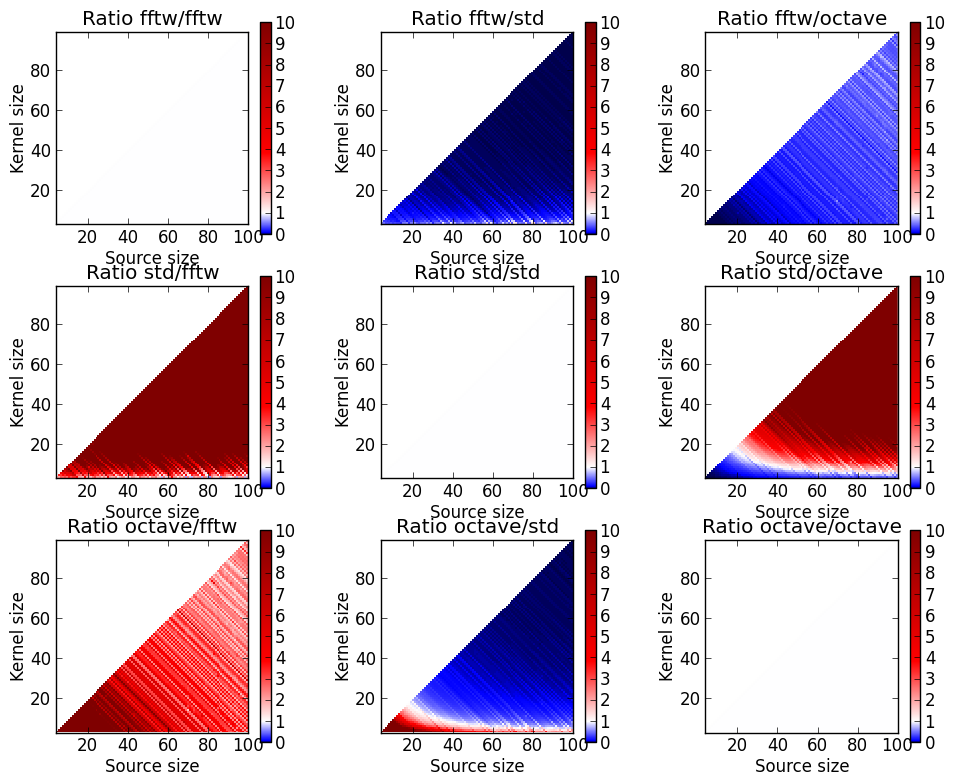
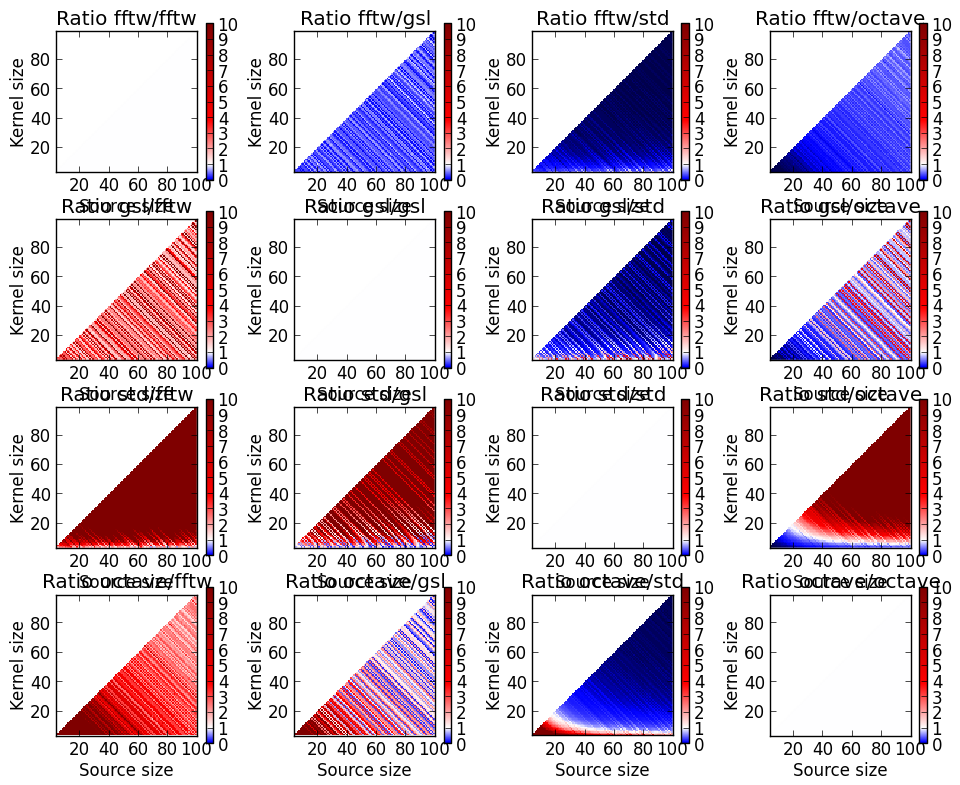
update of the plot scripts

diff --git a/Convolution/PythonScripts/plot_comparisons.py b/Convolution/PythonScripts/plot_comparisons.py
@@ -59,11 +59,16 @@ def cmap_center_point_adjust(cmap, range, center):
 
 
 data = np.genfromtxt('../Data/benchmarks_convolution_fftw.txt', dtype='str')
-
 data_linear_fftw = np.array(data[np.where(data[:,0] == 'linear'),1:], dtype=np.float)
 data_linear_fftw = data_linear_fftw.reshape(data_linear_fftw.shape[1:]) # drop the useless mode dimension
 data_circular_fftw = np.array(data[np.where(data[:,0] == 'circular'),1:], dtype=np.float)
 data_circular_fftw = data_circular_fftw.reshape(data_circular_fftw.shape[1:]) # drop the useless mode dimension
+
+data = np.genfromtxt('../Data/benchmarks_convolution_gsl.txt', dtype='str')
+data_linear_gsl = np.array(data[np.where(data[:,0] == 'linear'),1:], dtype=np.float)
+data_linear_gsl = data_linear_gsl.reshape(data_linear_gsl.shape[1:]) # drop the useless mode dimension
+data_circular_gsl = np.array(data[np.where(data[:,0] == 'circular'),1:], dtype=np.float)
+data_circular_gsl = data_circular_gsl.reshape(data_circular_gsl.shape[1:]) # drop the useless mode dimension
 
 data = np.genfromtxt('../Data/benchmarks_convolution_std.txt', dtype='str')
 data_linear_std = np.array(data[np.where(data[:,0] == 'linear'),1:], dtype=np.float)
@@ -92,6 +97,14 @@ Z_circular_fftw = np.NaN * np.zeros(X.shape)
 for d in data_circular_fftw:
     Z_circular_fftw[d[1]-min_kernel, d[0]-min_src] = d[2]
 
+Z_linear_gsl = np.NaN * np.zeros(X.shape)
+for d in data_linear_gsl:
+    Z_linear_gsl[d[1]-min_kernel, d[0]-min_src] = d[2]
+Z_circular_gsl = np.NaN * np.zeros(X.shape)
+for d in data_circular_gsl:
+    Z_circular_gsl[d[1]-min_kernel, d[0]-min_src] = d[2]
+
+
 Z_linear_std = np.NaN * np.zeros(X.shape)
 for d in data_linear_std:
     Z_linear_std[d[1]-min_kernel, d[0]-min_src] = d[2]
@@ -107,9 +120,9 @@ for d in data_circular_octave:
     Z_circular_octave[d[1]-min_kernel, d[0]-min_src] = d[2]
 
 
-Z_names = ['fftw', 'std', 'octave']
-Z_linear = [Z_linear_fftw, Z_linear_std, Z_linear_octave]
-Z_circular = [Z_circular_fftw, Z_circular_std, Z_circular_octave]
+Z_names = ['fftw', 'gsl', 'std', 'octave']
+Z_linear = [Z_linear_fftw, Z_linear_gsl, Z_linear_std, Z_linear_octave]
+Z_circular = [Z_circular_fftw, Z_circular_gsl, Z_circular_std, Z_circular_octave]
 
 ###################################################################
 # Plot the ratio of linear convolutions

diff --git a/Convolution/PythonScripts/plot_gsl_convolution.py b/Convolution/PythonScripts/plot_gsl_convolution.py
@@ -13,8 +13,8 @@ data_linear_unpadded = np.array(data[np.where(data[:,0] == 'linear_unpadded'),1:
 data_linear_unpadded = data_linear_unpadded.reshape(data_linear_unpadded.shape[1:]) # drop the useless mode dimension
 data_circular = np.array(data[np.where(data[:,0] == 'circular'),1:], dtype=np.float)
 data_circular = data_circular.reshape(data_circular.shape[1:]) # drop the useless mode dimension
-data_circular_padded = np.array(data[np.where(data[:,0] == 'circular_padded'),1:], dtype=np.float)
-data_circular_padded = data_circular_padded.reshape(data_circular_padded.shape[1:]) # drop the useless mode dimension
+data_circular_unpadded = np.array(data[np.where(data[:,0] == 'circular_unpadded'),1:], dtype=np.float)
+data_circular_unpadded = data_circular_unpadded.reshape(data_circular_unpadded.shape[1:]) # drop the useless mode dimension
 
 min_src = data_linear[:,0].min()
 max_src = data_linear[:,0].max()
@@ -31,11 +31,11 @@ for d in data_linear_unpadded:
     Z_linear_unpadded[d[1]-min_kernel, d[0]-min_src] = d[2]
 
 Z_circular = np.NaN * np.zeros(X.shape)
-Z_circular_padded = np.NaN * np.zeros(X.shape)
+Z_circular_unpadded = np.NaN * np.zeros(X.shape)
 for d in data_circular:
     Z_circular[d[1]-min_kernel, d[0]-min_src] = d[2]
-for d in data_circular_padded:
-    Z_circular_padded[d[1]-min_kernel, d[0]-min_src] = d[2]
+for d in data_circular_unpadded:
+    Z_circular_unpadded[d[1]-min_kernel, d[0]-min_src] = d[2]
 
 fig =plt.figure(figsize=(15,5))
 ax = fig.add_subplot(121, projection='3d')
@@ -48,7 +48,7 @@ ax.set_title('Linear convolution of a source NxN with a kernel kxk')
 
 ax = fig.add_subplot(122, projection='3d')
 ax.plot_wireframe(X, Y, Z_circular, color='b', alpha=0.4)
-ax.plot_wireframe(X, Y, Z_circular_padded, color='r')
+ax.plot_wireframe(X, Y, Z_circular_unpadded, color='r')
 ax.set_xlabel('Source size (N)')
 ax.set_ylabel('Kernel size (k)')
 ax.set_zlabel('Time (s.)')
